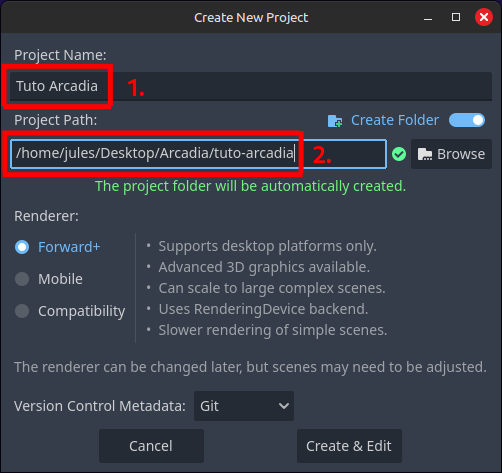
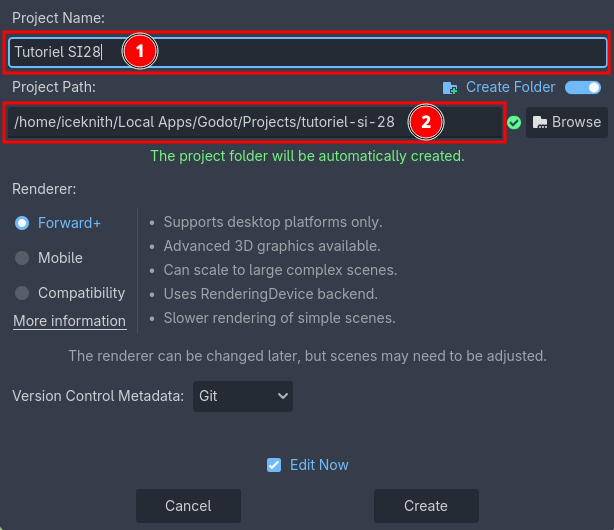
hey

diff --git a/docs/decouverte-godot.rst b/docs/decouverte-godot.rst
@@ -22,7 +22,7 @@ Installation de Godot
 Pour commencer le tutoriel, il vous faudra installer Godot. Pour cela, vous pouvez aller sur `ce site <https://godotengine.org/download/>`_ , pour y télécharger la dernière version de Godot.
 
 .. note::
-   Ce tutoriel a été écrit pour Godot 4.3. Ça ne devrait pas changer grand chose pour les futures versions, mais si vous voyez un problème, faites-le nous savoir!
+   Ce tutoriel a été écrit pour Godot 4.6. Ça ne devrait pas changer grand chose pour les futures versions, mais si vous voyez un problème, faites-le nous savoir!
 
 Une fois le fichier .zip téléchargé et dézippé, vous pouvez lancer l’installeur, et après un peu d’attente, vous pourrez lancer Godot, et être accueilli par cette fenêtre:
 
@@ -42,7 +42,7 @@ Actuellement, le **Project Manager** est vide, donc créons notre premier projet
    Vous pouvez changer la langue de l'éditeur dans les **Paramètres** en haut à droite du **Project Manager**, ou dans **Editor Settings** dans l'éditeur.
 
 Cliquer sur le bouton **Create** en haut à gauche pour créer un nouveau projet.
-Un popup s’ouvrira, en vous demandant des informations sur votre projet. Nommez votre projet ``"Tuto Arcadia"`` **[1]**, et choisissez le fichier dans lequel vous voulez qu’il soit stocké **[2]**.
+Un popup s’ouvrira, en vous demandant des informations sur votre projet. Nommez votre projet ``"Tutoriel SI28"`` **[1]**, et choisissez le fichier dans lequel vous voulez qu’il soit stocké **[2]**.
 
 .. image:: img/old_img/newproject.png
 

diff --git a/docs/creation-joueur.rst b/docs/creation-joueur.rst
@@ -10,7 +10,7 @@ Initialisation du Joueur
 ------------------------
 
 Pour commencer, nous allons créer un ``CharacterBody2D``. C'est un nœud 2D, qui est utilisé pour créer des personnages qui peuvent se déplacer.
-En haut à gauche, dans l'arborescence des scènes, créez une nouvelle scène en cliquant sur le bouton **Other Node** ou le bouton **+**. Ajoutez un ``CharacterBody2D``.
+En haut à gauche, de la fenêtre principale de l'éditeur, créez une nouvelle scène en cliquant sur le bouton **+**, ou en appuyant sur ``Ctrl + N``. Celà créera un nouvel onglet, dans laquelle nous pourrons créer notre joueur. Pour celà, ajoutez un ``CharacterBody2D`` en cliquant sur le bouton ``Other Node`` dans l'arborescence, ou en appuyant sur ``Ctrl + A``.
 Le noeud CharacterBody2D devrait apparaître dans l'arborescence, et l'éditeur devrait être passé en mode 2D.
 Avant toute chose, sauvegardez votre nouvelle scène en appuyant sur ``Ctrl+S``.
 Vous pouvez créer un dossier ``scenes`` dans votre projet, et y enregistrer la scène du joueur en l'appellant ``player.tscn``.

diff --git a/docs/creation-monde.rst b/docs/creation-monde.rst
@@ -37,8 +37,6 @@ Pour trouver le Stretch Mode, il suffit de descendre un peu plus bas dans l'ongl
 
 Maintenant qu'on a mis en place tout cela, on peut quitter les paramètres du projet et revenir à la création de notre monde !
 Pour ce faire, on va commencer par créer une nouvelle scène qui sera notre `Monde`.
-Cliquez sur **Scene -> New Scene** en haut à droite, ou sur le petit **+** en haut à côté de l'onglet de la scène ``player``, ou appuyez sur ``Ctrl+N``.
-Une nouvelle scène vierge devrait s'ouvir:
 
 .. image:: img/WorldCreation.png
 
